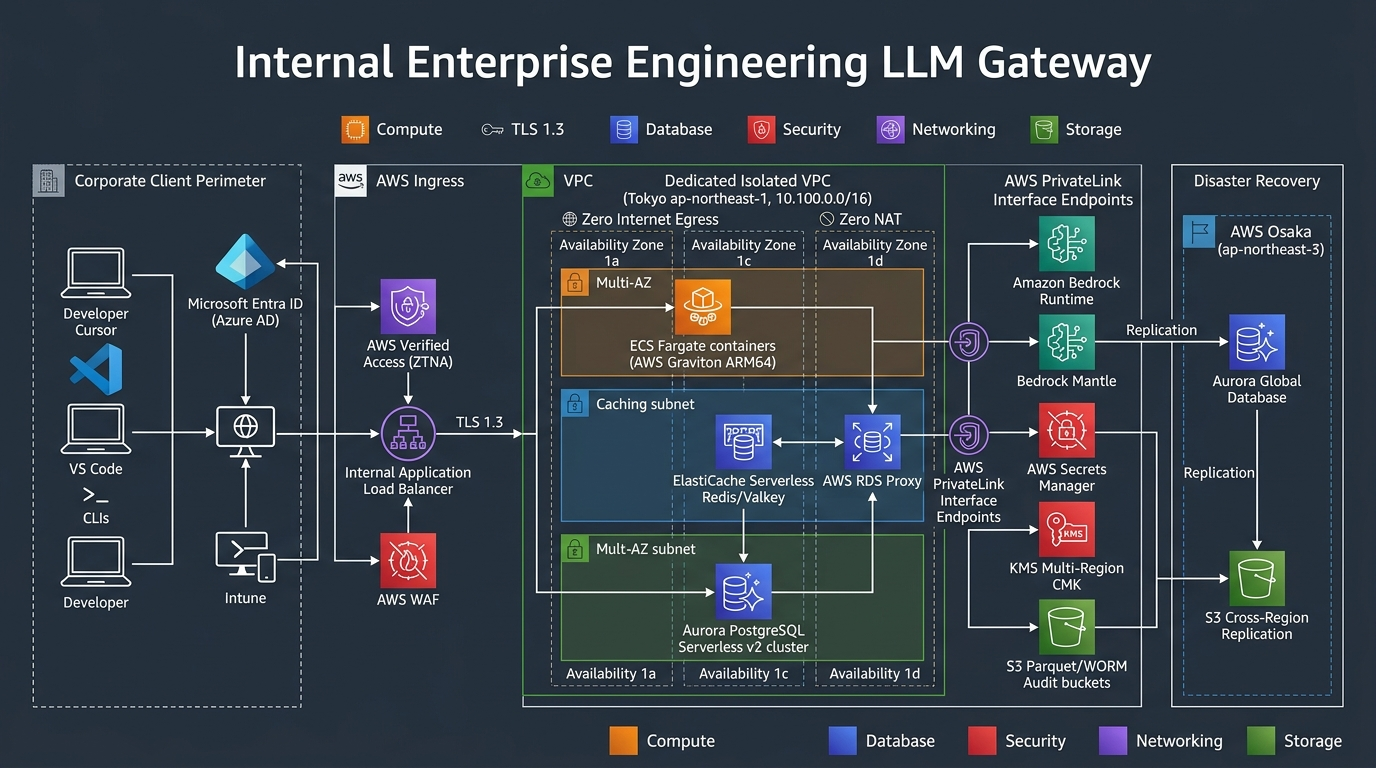
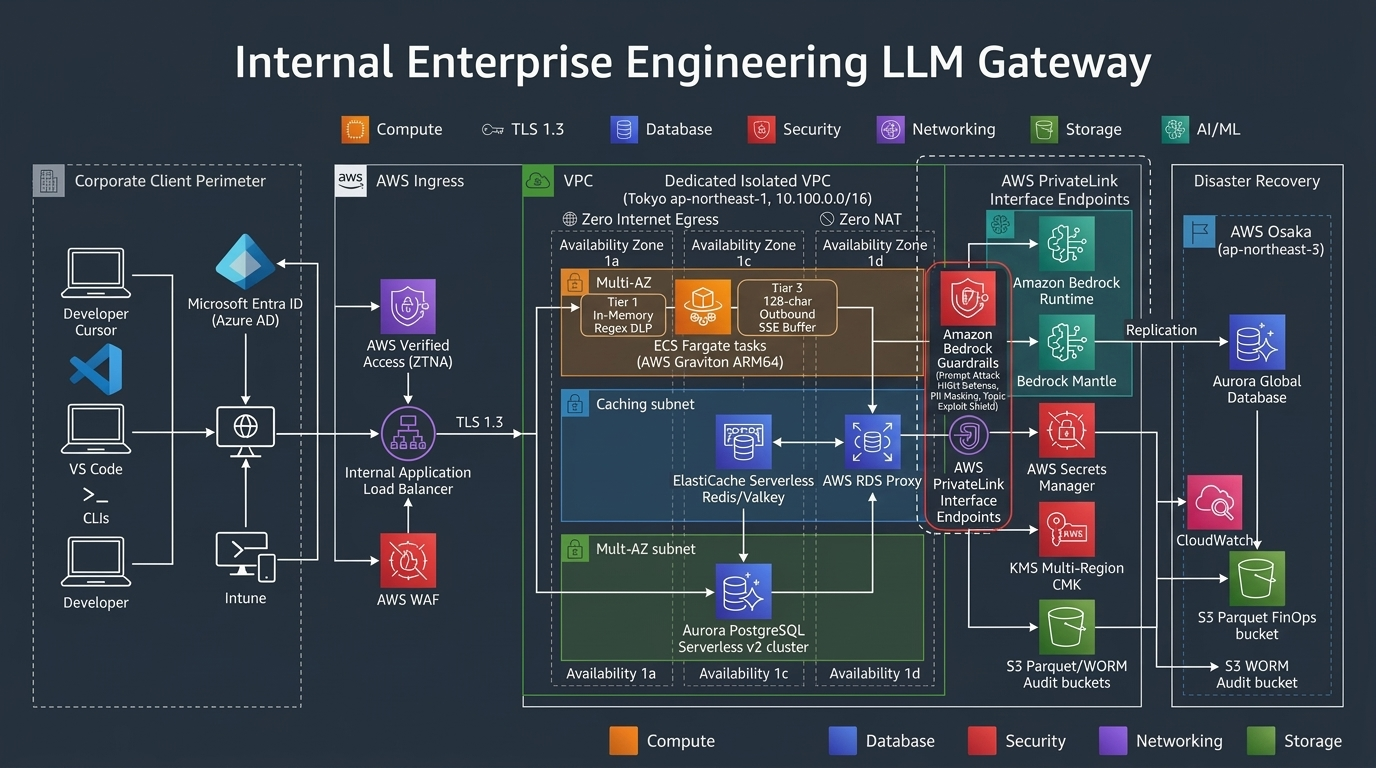
docs: update infrastructure overview diagram and topology with Bedrock Guardrails and hybrid DLP

diff --git a/README.md b/README.md
@@ -60,7 +60,7 @@ flowchart TD
 
     subgraph AWS_VPC["Dedicated LLM Gateway VPC (ap-northeast-1) - Zero NAT / Zero IGW"]
         ALB["Internal Application Load Balancer<br/>(TLS 1.3, Unbuffered SSE, 300s Timeout)"]
-        Proxy["ECS Fargate Core Proxy Tasks (Graviton ARM64)<br/>(LiteLLM Engine + Dual-Pass DLP Middleware)"]
+        Proxy["ECS Fargate Core Proxy Tasks (Graviton ARM64)<br/>• Tier 1 In-Memory Regex DLP (HTTP 422 Block)<br/>• Tier 3 SSE 128-char Outbound Buffer"]
         Redis["ElastiCache Serverless (Multi-AZ)<br/>(Atomic Pre-Flight Quota Reservation)"]
         RDS_Proxy["AWS RDS Proxy<br/>(Connection Multiplexing & Fast Failover)"]
         Aurora["Aurora PostgreSQL Serverless v2<br/>(Users, Virtual Keys, Ledgers)"]
@@ -68,6 +68,7 @@ flowchart TD
     end
 
     subgraph Upstream_Bedrock["Amazon Bedrock (Japan Sovereign Boundary)"]
+        Guardrails["Tier 2: Amazon Bedrock Guardrails<br/>• Prompt Attack HIGH Filter<br/>• Denied Topics & Exploit Shield<br/>• Japan My Number & PII Redaction"]
         Runtime["Bedrock Runtime (ap-northeast-1)<br/>• jp.* Cross-Region Profiles (Sonnet 4.5/4.6, Haiku 4.5)<br/>• In-Region Tokyo Models (Devstral 2, Qwen3, GPT OSS)<br/>• Vector Embeddings (Titan v2, Cohere Multilingual)"]
         Mantle["Bedrock Mantle (ap-northeast-1)<br/>• Open Models with Server-Side Tools & Async Batches"]
     end
@@ -82,7 +83,8 @@ flowchart TD
     Proxy <-->|"TCP 6379"| Redis
     Proxy <-->|"TCP 5432"| RDS_Proxy <--> Aurora
     Proxy -->|"HTTPS 443 (PrivateLink)"| VPCE
-    VPCE --> Runtime & Mantle
+    VPCE --> Guardrails --> Runtime
+    VPCE --> Mantle
     Proxy --> CW
     Proxy -.->|"Daily Scheduled Extraction"| S3_FinOps & S3_Audit
 ```

diff --git a/INFRASTRUCTURE_SPEC.md b/INFRASTRUCTURE_SPEC.md
@@ -143,7 +143,7 @@ flowchart TD
     end
 
     subgraph VPC_Isolated["Isolated Gateway VPC (10.100.0.0/16) - Zero IGW / Zero NAT"]
-        Proxy["ECS Fargate Proxy Tier (Graviton ARM64)<br/>• Read-only Root FS + /tmp tmpfs<br/>• Dual-Pass DLP Engine<br/>• Uvicorn (4 Workers)"]
+        Proxy["ECS Fargate Proxy Tier (Graviton ARM64)<br/>• Read-only Root FS + /tmp tmpfs<br/>• Tier 1 In-Memory Regex DLP (HTTP 422 Block)<br/>• Tier 3 SSE 128-char Outbound Buffer<br/>• Uvicorn (4 Workers)"]
         Redis["ElastiCache Serverless (Multi-AZ)<br/>• Atomic Lua Quota Reservation"]
         RDS_Proxy["AWS RDS Proxy (Multi-AZ)<br/>• Connection Pooling (120 Backends)"]
         Aurora[("Aurora PostgreSQL Serverless v2<br/>• Multi-AZ Multi-Tier DB")]
@@ -151,6 +151,7 @@ flowchart TD
     end
 
     subgraph UpstreamBedrock["Amazon Bedrock (Japan Sovereign Boundary)"]
+        Guardrails["Tier 2: Amazon Bedrock Guardrails<br/>• Prompt Attack HIGH Filter<br/>• Denied Topics & Exploit Shield<br/>• Japan My Number & PII Redaction"]
         BedrockRT["Bedrock Runtime (ap-northeast-1)<br/>• jp.* Cross-Region Profiles<br/>• Tokyo Foundation Models"]
         BedrockMantle["Bedrock Mantle (ap-northeast-1)<br/>• Open Models with Server-Side Tools"]
     end
@@ -161,7 +162,8 @@ flowchart TD
     Proxy <-->|"TCP 6379 (TLS 1.3)"| Redis
     Proxy <-->|"TCP 5432 (IAM Auth)"| RDS_Proxy <--> Aurora
     Proxy -->|"HTTPS 443 (PrivateLink)"| VPCE
-    VPCE --> BedrockRT & BedrockMantle
+    VPCE --> Guardrails --> BedrockRT
+    VPCE --> BedrockMantle
 ```
 
 #### 2.1 AWS Data Perimeter Strategy
